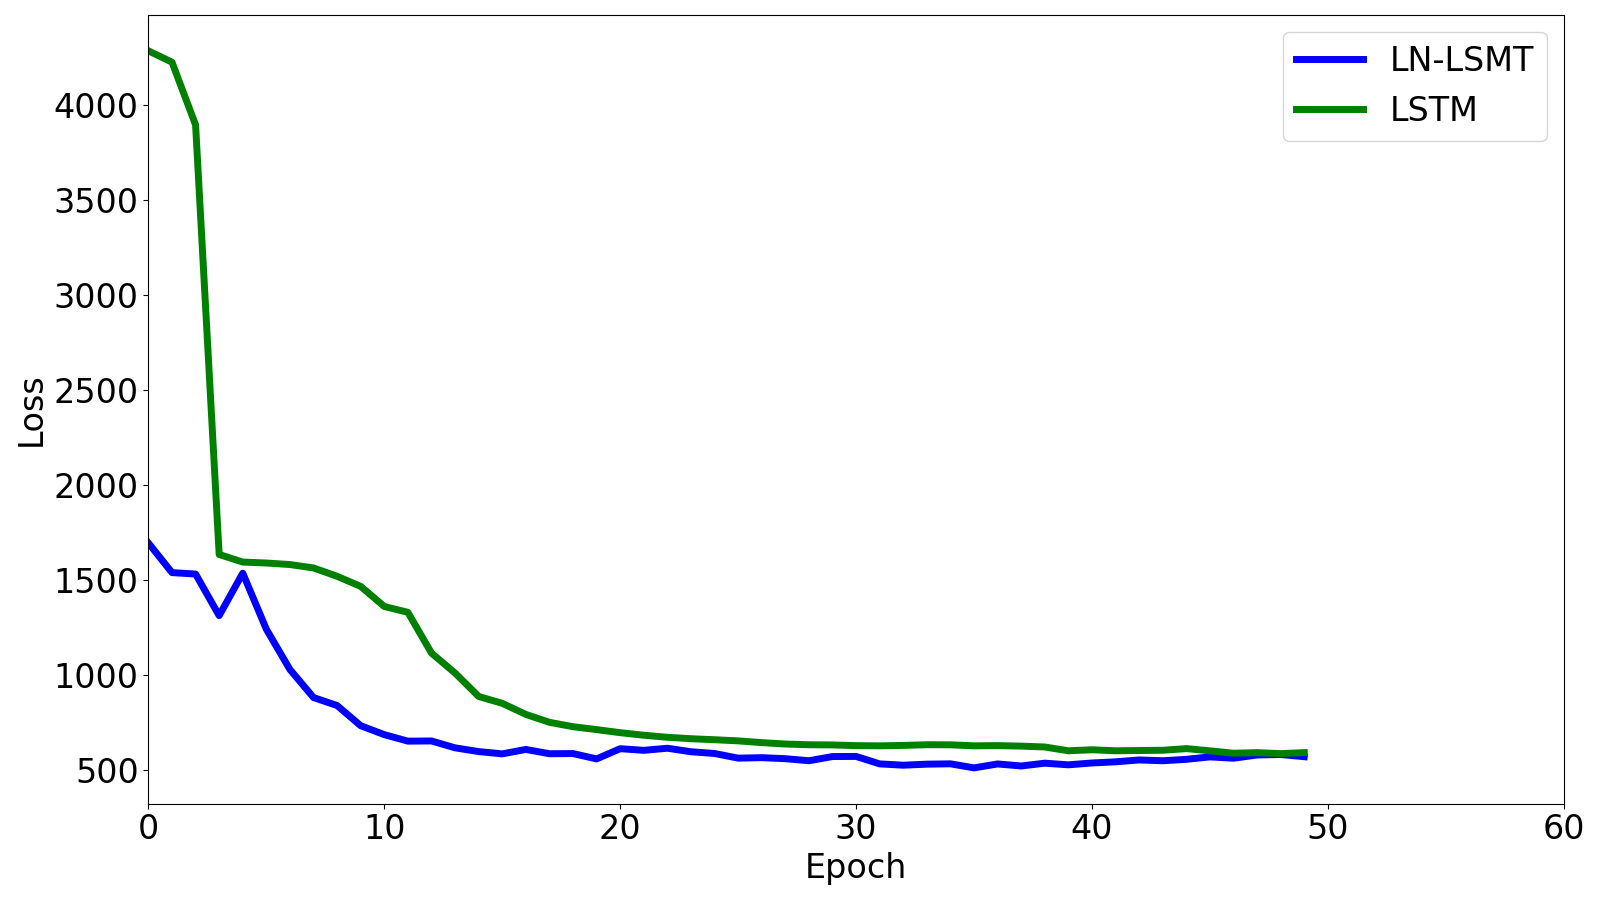
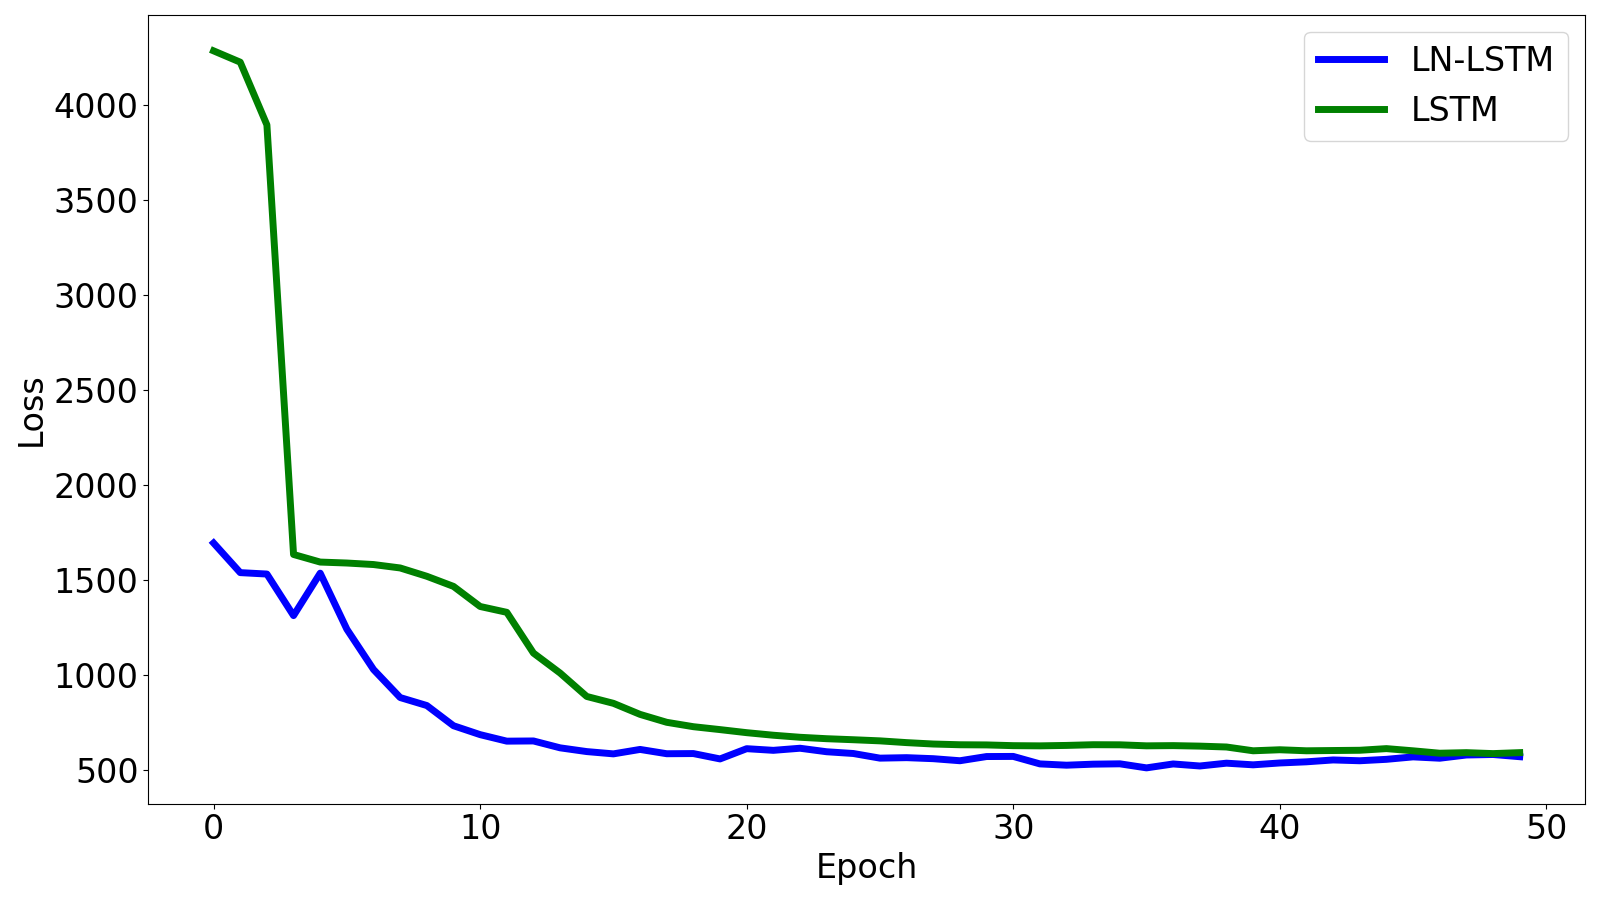
new fig

diff --git a/Python_code/Read_mat_file_and_Plot/LN_comparison/plot.py b/Python_code/Read_mat_file_and_Plot/LN_comparison/plot.py
@@ -20,7 +20,7 @@ my_fontsize=30
 
 plt.figure(figsize=(16,9))
 
-plt.plot(test_loss_1, 'b', linewidth=5, label = 'LN-LSMT')
+plt.plot(test_loss_1, 'b', linewidth=5, label = 'LN-LSTM')
 plt.plot(test_loss_2, 'g', linewidth=5, label = 'LSTM')
 
 plt.xlabel('Epoch' , fontsize=my_fontsize*0.8 )
@@ -29,7 +29,7 @@ plt.ylabel('Loss', fontsize=my_fontsize*0.8 )
 plt.yticks(fontsize=my_fontsize*0.8)
 plt.legend( loc='upper right', fontsize=my_fontsize*0.8 )
 
-plt.xlim([0, 60])
+# plt.xlim([0, 60])
 
 plt.tight_layout()
 plt.savefig( 'Comparison.png' )
